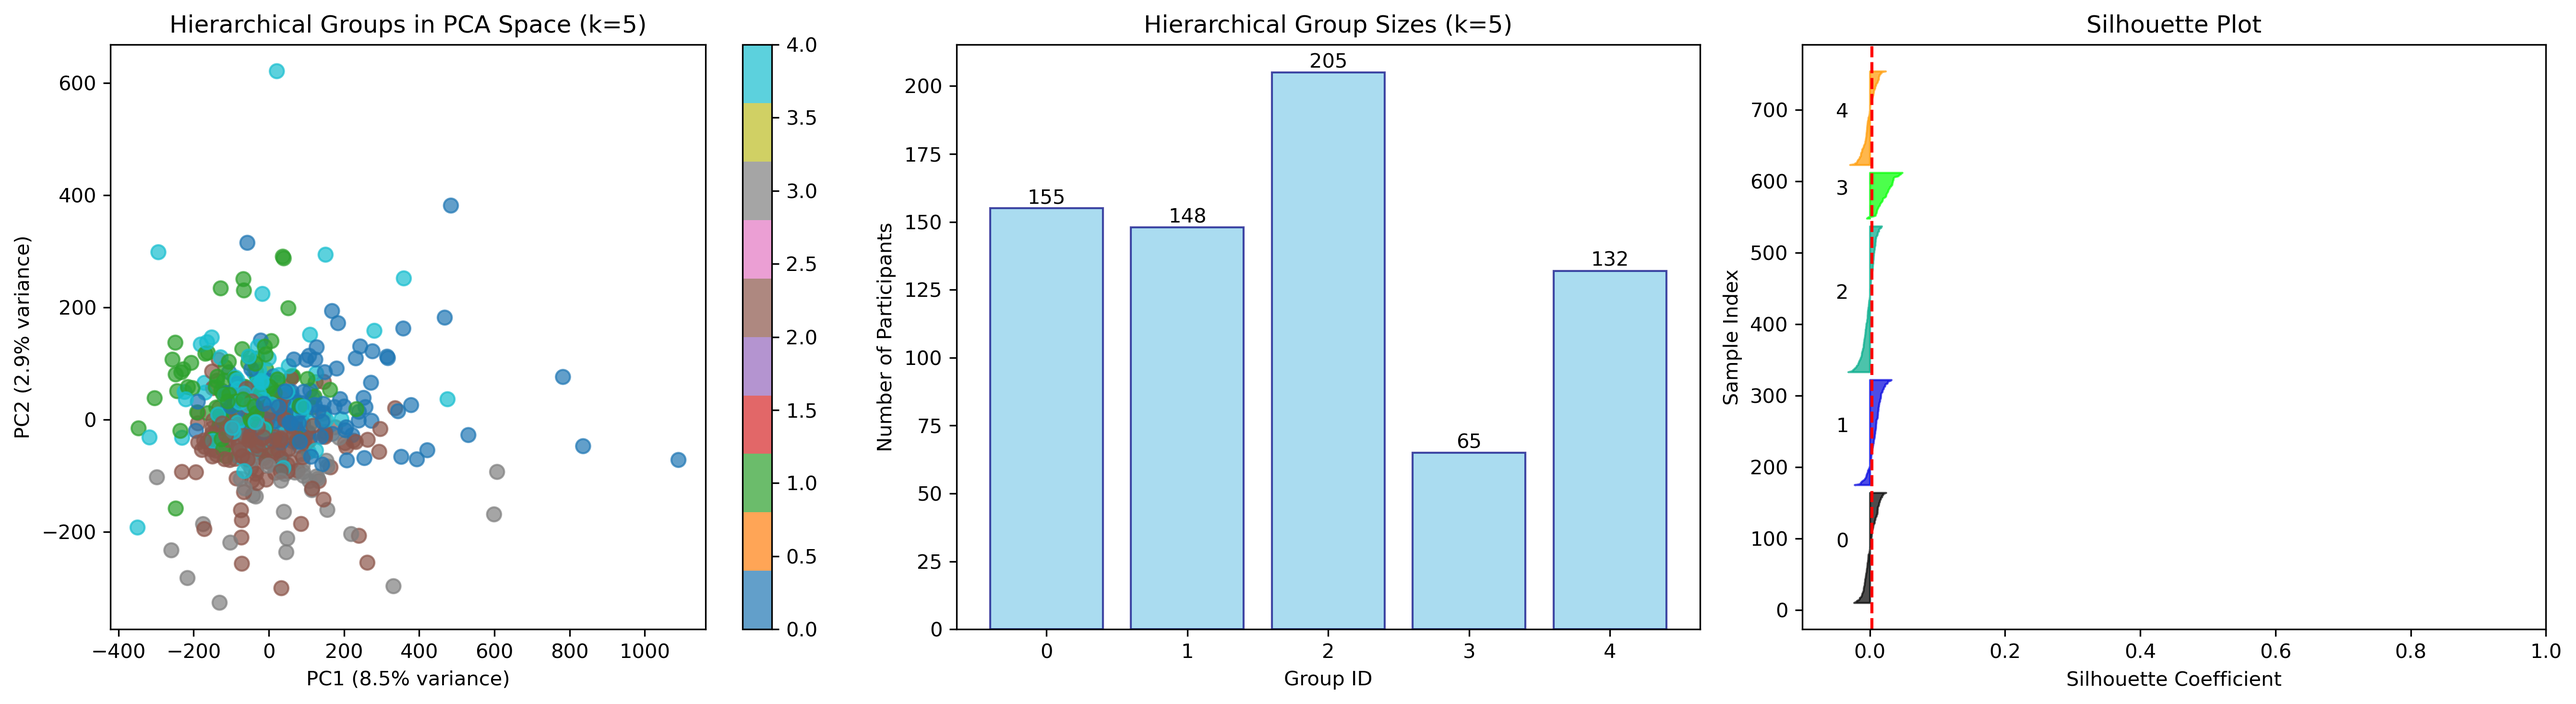
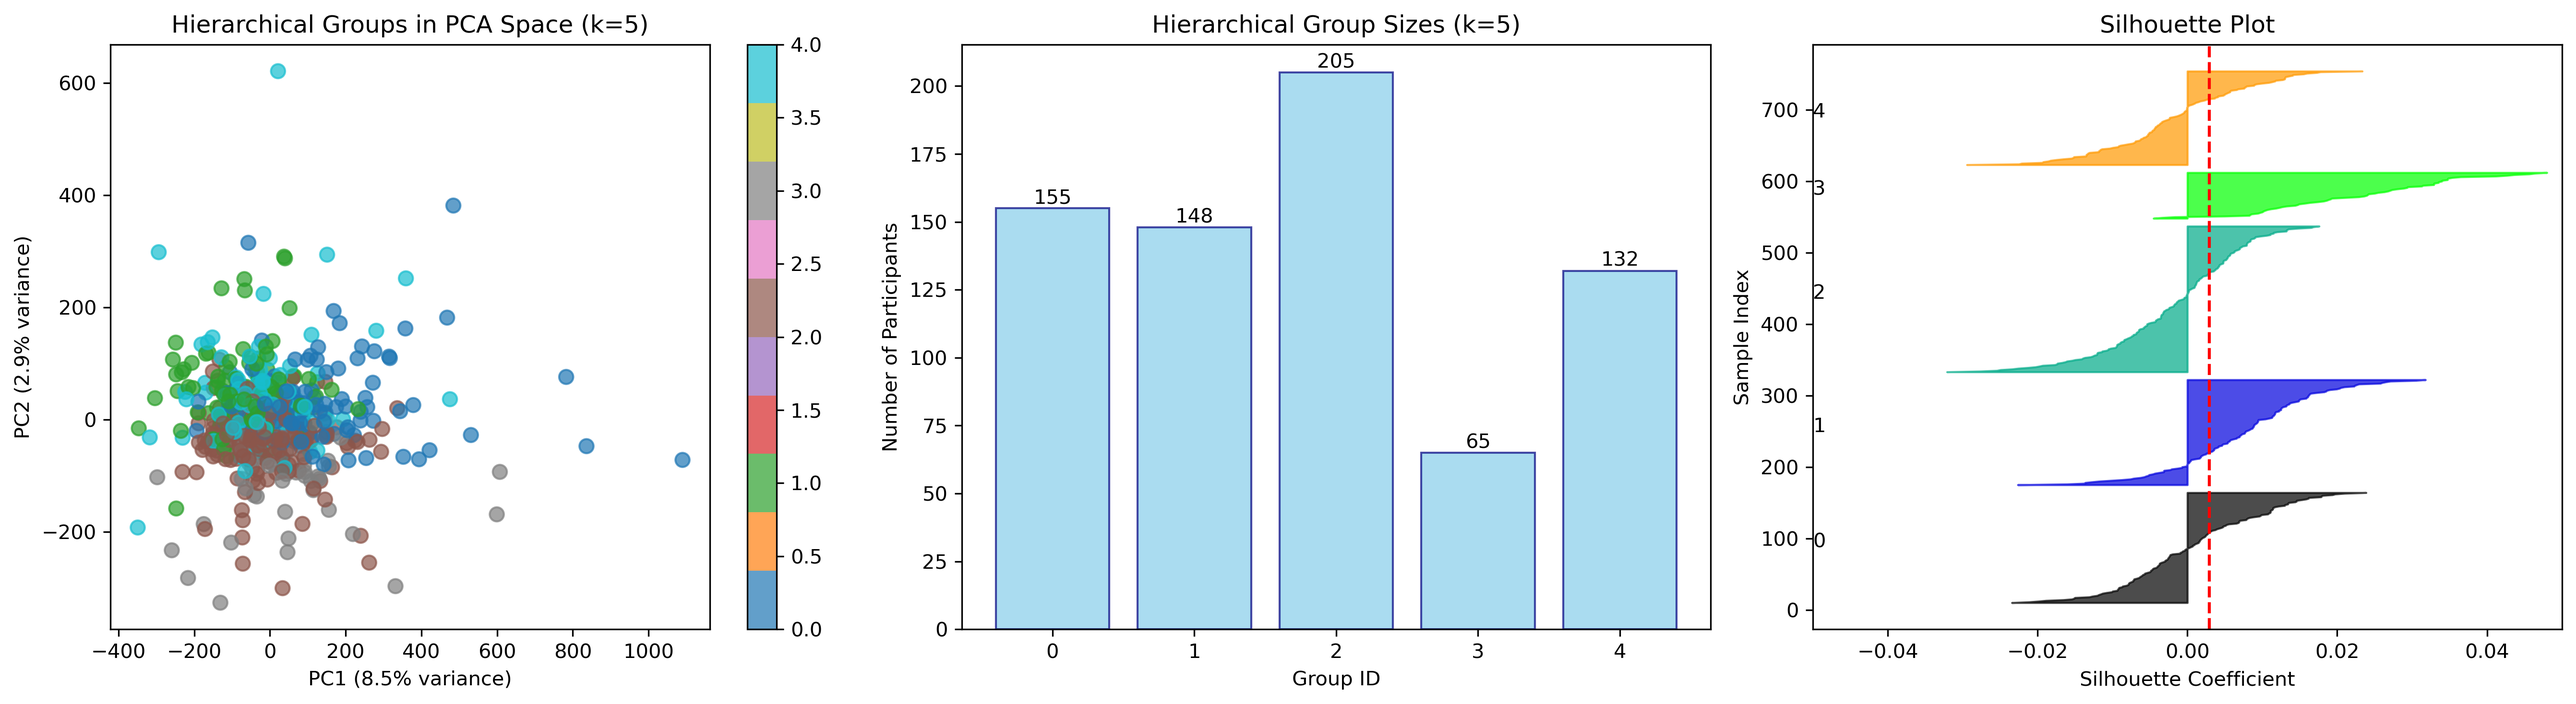
idk tbh

diff --git a/hierarchical-workflow.py b/hierarchical-workflow.py
@@ -788,7 +788,7 @@ class HierarchicalConnectivityClustering:
         axes[2].set_xlabel("Silhouette Coefficient")
         axes[2].set_ylabel("Sample Index")
         axes[2].set_title("Silhouette Plot")
-        axes[2].set_xlim([-0.1, 0.1])
+        axes[2].set_xlim([-0.05, 0.05])
 
         plt.tight_layout()
         plt.savefig(
